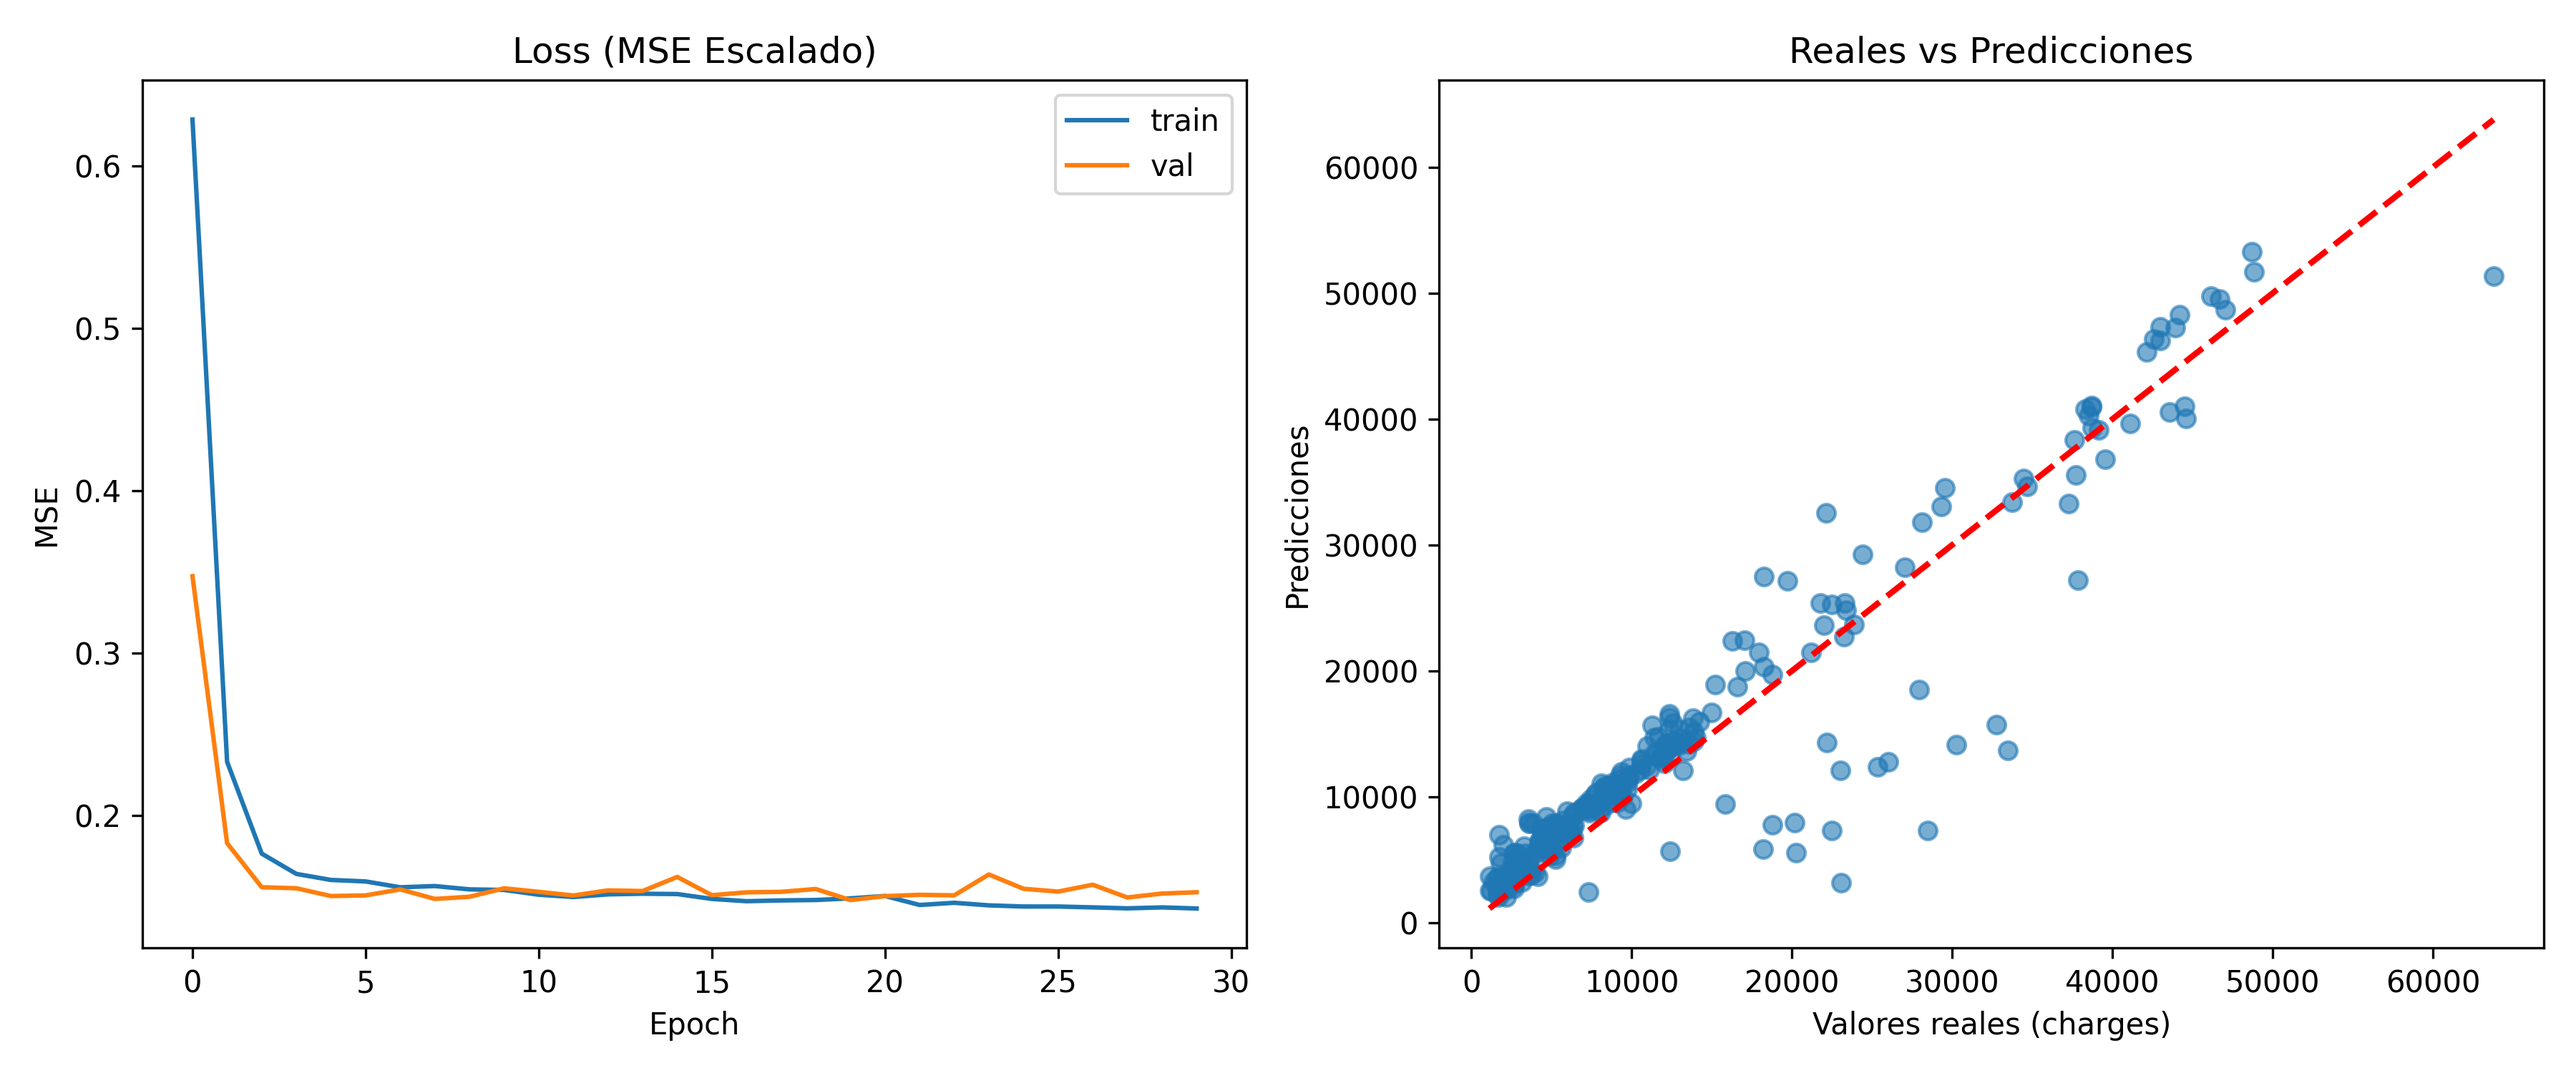
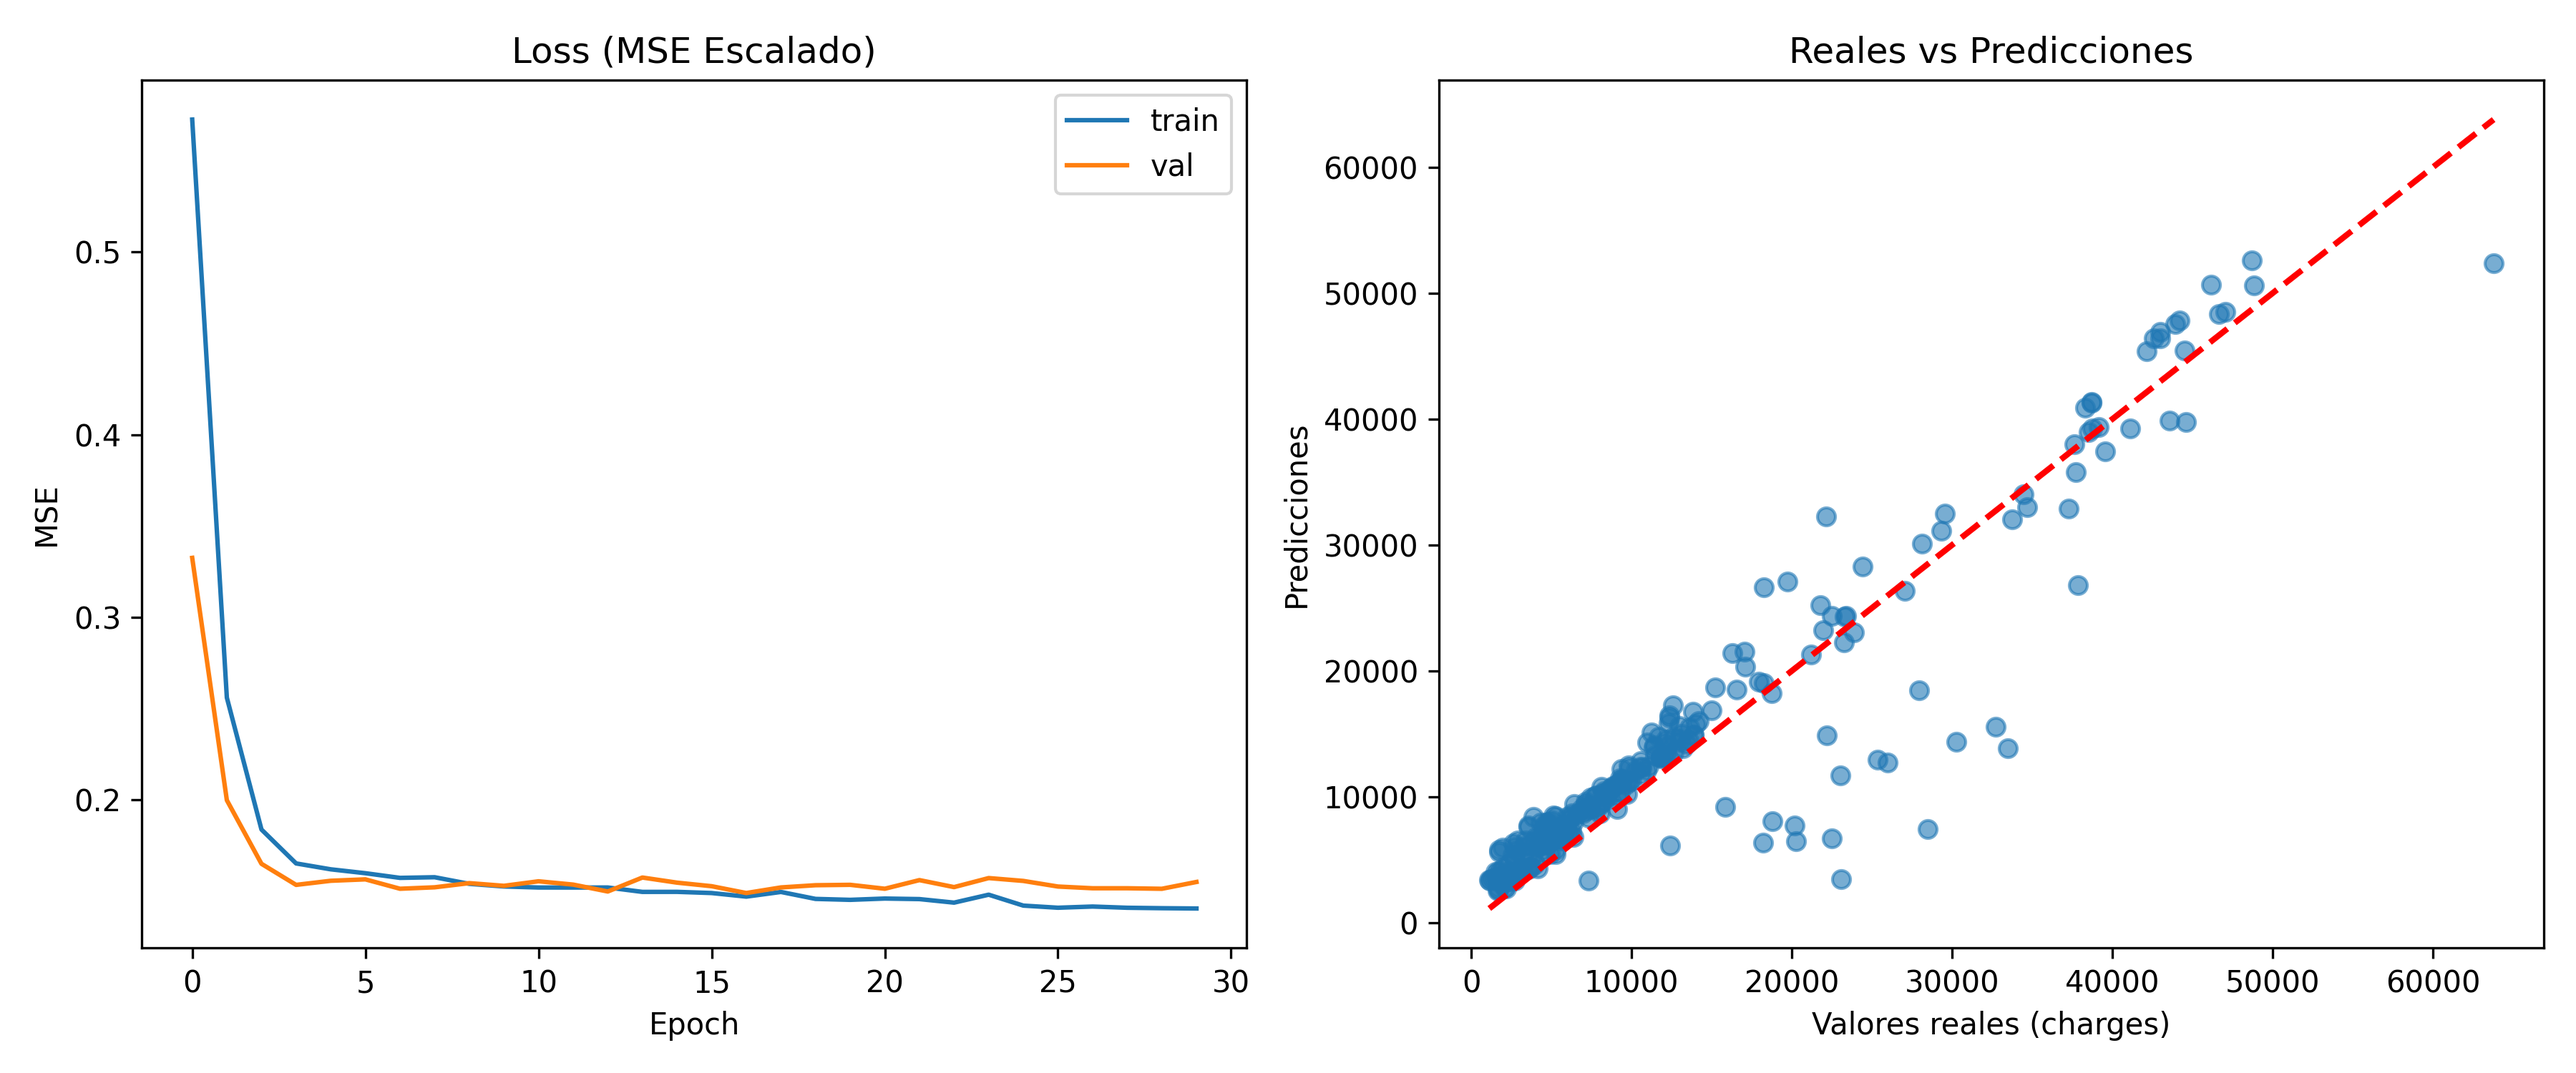
NEW FEATURES

diff --git a/models/src/nn.py b/models/src/nn.py
@@ -34,7 +34,7 @@ def run_nn_keras(X_train=None, X_test=None, Y_train=None, Y_test=None, epochs=30
     model.compile(
         optimizer=keras.optimizers.Adam(learning_rate=1e-3),
         loss="mse",
-        metrics=[keras.metrics.RootMeanSquaredError()]
+        metrics=[keras.metrics.MeanSquaredError()]
     )
 
     callbacks = [
